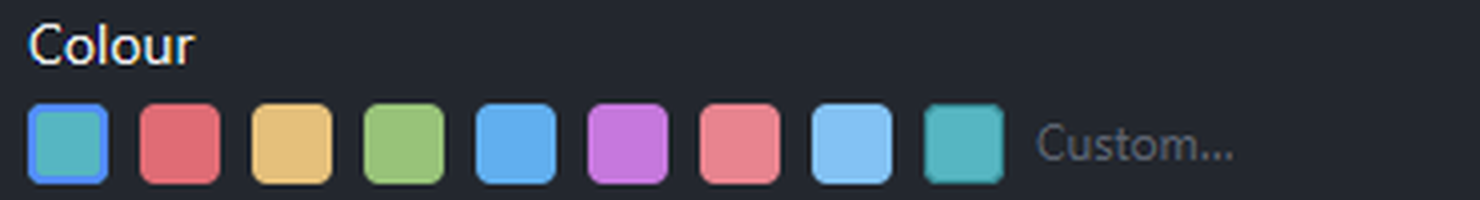
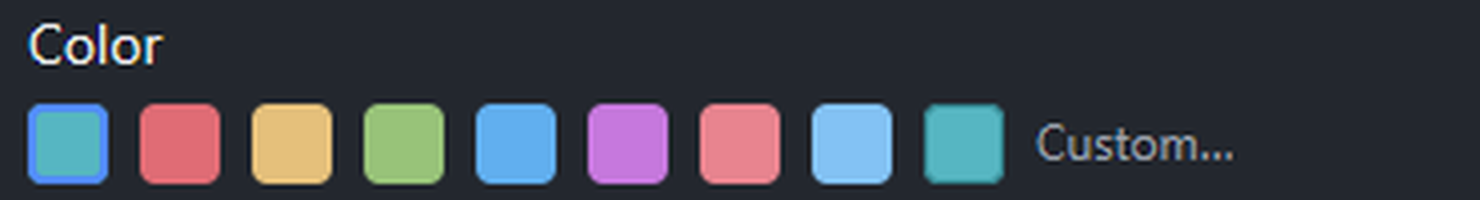
fix(session-ui): the colour label reads "Color", like the rest of the UI
The settings pages already say "Color Theme" and "Cursor Color". One dialog
spelling it "Colour" is a wart the before/after report would show side by side.
Re-captures the US-0120 frames against the shipped text.

Refs: US-0120, IN-0042

Claude-Session: https://claude.ai/code/session_018tAaHVGPnSzrEHLVcg3sx1

Changed region(s): [[0.6838, 0.6, 0.8392, 0.81], [0.0932, 0.15, 0.1554, 0.33]]

diff --git a/crates/session-ui/src/group_combo.rs b/crates/session-ui/src/group_combo.rs
@@ -168,108 +168,115 @@ pub(crate) fn group_combobox(
         })
         .child(
             Combobox::new(state)
-        .placeholder("Select or type group...")
-        .search_placeholder("Search or type group name...")
-        .w_full()
-        .render_trigger({
-            let group_value = group_value.clone();
-            let is_open = is_open.clone();
-            move |ctx, _, cx| {
-                is_open.set(ctx.is_open());
-                let val = group_value.borrow().clone();
-                let placeholder = ctx.placeholder().cloned().unwrap_or_default();
+                .placeholder("Select or type group...")
+                .search_placeholder("Search or type group name...")
+                .w_full()
+                .render_trigger({
+                    let group_value = group_value.clone();
+                    let is_open = is_open.clone();
+                    move |ctx, _, cx| {
+                        is_open.set(ctx.is_open());
+                        let val = group_value.borrow().clone();
+                        let placeholder = ctx.placeholder().cloned().unwrap_or_default();
 
-                h_flex()
-                    .w_full()
-                    .items_center()
-                    .gap_1()
-                    .child(
+                        h_flex()
+                            .w_full()
+                            .items_center()
+                            .gap_1()
+                            .child(
+                                div()
+                                    .w_full()
+                                    .overflow_hidden()
+                                    .truncate()
+                                    .when(val.is_empty(), |this| {
+                                        this.text_color(cx.theme().muted_foreground)
+                                            .child(placeholder)
+                                    })
+                                    .when(!val.is_empty(), |this| {
+                                        this.child(SharedString::from(val))
+                                    }),
+                            )
+                            .when(!ctx.is_open(), |this| {
+                                // Clear (×) button — only shown when the dropdown is closed and a value exists.
+                                this.when(!group_value.borrow().is_empty(), |this| {
+                                    let gv = group_value.clone();
+                                    this.child(
+                                        div()
+                                            .id("clear-group")
+                                            .on_mouse_down(
+                                                gpui::MouseButton::Left,
+                                                move |_, _, cx| {
+                                                    cx.stop_propagation();
+                                                    *gv.borrow_mut() = String::new();
+                                                },
+                                            )
+                                            .child(
+                                                Icon::new(IconName::CircleX)
+                                                    .xsmall()
+                                                    .text_color(muted_fg),
+                                            ),
+                                    )
+                                })
+                            })
+                            .child(
+                                Icon::new(IconName::ChevronDown)
+                                    .xsmall()
+                                    .text_color(cx.theme().muted_foreground),
+                            )
+                            .into_any_element()
+                    }
+                })
+                .footer({
+                    let group_value = group_value.clone();
+                    let query_cell = query_cell.clone();
+                    move |_, cx| {
+                        let query = query_cell.borrow().trim().to_string();
+                        let label = if query.is_empty() {
+                            "Type to create new group".to_string()
+                        } else {
+                            format!("Create \"{}\"", query)
+                        };
+                        let enabled = !query.is_empty();
+
+                        Button::new("create-group")
+                            .ghost()
+                            .label(label)
+                            .icon(Icon::new(IconName::Plus))
+                            .text_color(cx.theme().foreground)
+                            .w_full()
+                            .justify_start()
+                            .when(!enabled, |this| this.disabled(true))
+                            .when(enabled, |this| {
+                                let gv = group_value.clone();
+                                let q = query.clone();
+                                this.on_click(move |_, window, cx| {
+                                    *gv.borrow_mut() = q.clone();
+                                    // Close the dropdown: it used to stay open still
+                                    // offering to create the group it had just created.
+                                    window.dispatch_action(Box::new(Cancel), cx);
+                                })
+                            })
+                            .into_any_element()
+                    }
+                })
+                // The kit's default empty state is a bare inbox icon (`F22`).
+                .empty({
+                    let query_cell = query_cell.clone();
+                    move |_, cx| {
+                        let query = query_cell.borrow().trim().to_string();
                         div()
                             .w_full()
-                            .overflow_hidden()
-                            .truncate()
-                            .when(val.is_empty(), |this| {
-                                this.text_color(cx.theme().muted_foreground)
-                                    .child(placeholder)
+                            .py_4()
+                            .px_3()
+                            .text_sm()
+                            .text_color(cx.theme().muted_foreground)
+                            .child(if query.is_empty() {
+                                "No groups yet. Type a name to create one.".to_string()
+                            } else {
+                                format!("No group matches \"{query}\". Press Enter to create it.")
                             })
-                            .when(!val.is_empty(), |this| this.child(SharedString::from(val))),
-                    )
-                    .when(!ctx.is_open(), |this| {
-                        // Clear (×) button — only shown when the dropdown is closed and a value exists.
-                        this.when(!group_value.borrow().is_empty(), |this| {
-                            let gv = group_value.clone();
-                            this.child(
-                                div()
-                                    .id("clear-group")
-                                    .on_mouse_down(gpui::MouseButton::Left, move |_, _, cx| {
-                                        cx.stop_propagation();
-                                        *gv.borrow_mut() = String::new();
-                                    })
-                                    .child(
-                                        Icon::new(IconName::CircleX).xsmall().text_color(muted_fg),
-                                    ),
-                            )
-                        })
-                    })
-                    .child(
-                        Icon::new(IconName::ChevronDown)
-                            .xsmall()
-                            .text_color(cx.theme().muted_foreground),
-                    )
-                    .into_any_element()
-            }
-        })
-        .footer({
-            let group_value = group_value.clone();
-            let query_cell = query_cell.clone();
-            move |_, cx| {
-                let query = query_cell.borrow().trim().to_string();
-                let label = if query.is_empty() {
-                    "Type to create new group".to_string()
-                } else {
-                    format!("Create \"{}\"", query)
-                };
-                let enabled = !query.is_empty();
-
-                Button::new("create-group")
-                    .ghost()
-                    .label(label)
-                    .icon(Icon::new(IconName::Plus))
-                    .text_color(cx.theme().foreground)
-                    .w_full()
-                    .justify_start()
-                    .when(!enabled, |this| this.disabled(true))
-                    .when(enabled, |this| {
-                        let gv = group_value.clone();
-                        let q = query.clone();
-                        this.on_click(move |_, window, cx| {
-                            *gv.borrow_mut() = q.clone();
-                            // Close the dropdown: it used to stay open still
-                            // offering to create the group it had just created.
-                            window.dispatch_action(Box::new(Cancel), cx);
-                        })
-                    })
-                    .into_any_element()
-            }
-        })
-        // The kit's default empty state is a bare inbox icon (`F22`).
-        .empty({
-            let query_cell = query_cell.clone();
-            move |_, cx| {
-                let query = query_cell.borrow().trim().to_string();
-                div()
-                    .w_full()
-                    .py_4()
-                    .px_3()
-                    .text_sm()
-                    .text_color(cx.theme().muted_foreground)
-                    .child(if query.is_empty() {
-                        "No groups yet. Type a name to create one.".to_string()
-                    } else {
-                        format!("No group matches \"{query}\". Press Enter to create it.")
-                    })
-            }
-        }),
+                    }
+                }),
         )
 }
 
@@ -282,7 +289,10 @@ mod tests {
     #[test]
     fn enter_creates_only_a_typed_name_the_list_cannot_offer() {
         assert_eq!(group_commit("Lab", 0), GroupCommit::Create("Lab".into()));
-        assert_eq!(group_commit("  Lab  ", 0), GroupCommit::Create("Lab".into()));
+        assert_eq!(
+            group_commit("  Lab  ", 0),
+            GroupCommit::Create("Lab".into())
+        );
         // A row is on screen: Enter belongs to the list, which selects it.
         assert_eq!(group_commit("Lab", 1), GroupCommit::Ignore);
         // Nothing typed: Enter has nothing to create.

diff --git a/crates/session-ui/src/session_dialog.rs b/crates/session-ui/src/session_dialog.rs
@@ -192,21 +192,31 @@ fn color_row(state: &gpui::Entity<ColorPickerState>, cx: &App) -> impl IntoEleme
         .gap_2()
         .items_center()
         .flex_wrap()
-        .children(swatch_colors(cx).into_iter().enumerate().map(|(ix, color)| {
-            let is_selected = selected.is_some_and(|value| value.to_hex() == color.to_hex());
-            let state = state.clone();
-            div()
-                .id(("session-color", ix))
-                .w_5()
-                .h_5()
-                .rounded_sm()
-                .bg(color)
-                .border_2()
-                .border_color(if is_selected { border } else { gpui::transparent_black() })
-                .on_click(move |_, window, cx| {
-                    state.update(cx, |state, cx| state.set_value(color, window, cx));
-                })
-        }))
+        .children(
+            swatch_colors(cx)
+                .into_iter()
+                .enumerate()
+                .map(|(ix, color)| {
+                    let is_selected =
+                        selected.is_some_and(|value| value.to_hex() == color.to_hex());
+                    let state = state.clone();
+                    div()
+                        .id(("session-color", ix))
+                        .w_5()
+                        .h_5()
+                        .rounded_sm()
+                        .bg(color)
+                        .border_2()
+                        .border_color(if is_selected {
+                            border
+                        } else {
+                            gpui::transparent_black()
+                        })
+                        .on_click(move |_, window, cx| {
+                            state.update(cx, |state, cx| state.set_value(color, window, cx));
+                        })
+                }),
+        )
         .child(ColorPicker::new(state).small())
         .child(div().text_xs().text_color(muted).child("Custom\u{2026}"))
 }
@@ -457,7 +467,7 @@ pub(crate) fn open_session_dialog(
                     cx,
                 ))
                 .child(labelled_field(
-                    "Colour",
+                    "Color",
                     FieldRequirement::Optional,
                     color_row(&color_state, cx),
                     cx,

diff --git a/crates/session-ui/src/auth_form.rs b/crates/session-ui/src/auth_form.rs
@@ -117,13 +117,11 @@ impl SshAuthForm {
                 RadioGroup::horizontal("ssh-auth-method")
                     // `control_label` instead of `Radio::from(&str)`, whose
                     // `.label(…)` clips the `y` of "Private Key" (BUG-0069).
-                    .children(
-                        ["Password", "Private Key", "SSH Agent"].map(|label| {
-                            Radio::new(label)
-                                .accessibility_label(label)
-                                .child(control_label(label))
-                        }),
-                    )
+                    .children(["Password", "Private Key", "SSH Agent"].map(|label| {
+                        Radio::new(label)
+                            .accessibility_label(label)
+                            .child(control_label(label))
+                    }))
                     .selected_index(Some(selected_index))
                     .on_click(move |selected: &usize, window, cx| {
                         let private_key_selected = *selected == 1;

diff --git a/crates/session-ui/src/quick_connect_dialog.rs b/crates/session-ui/src/quick_connect_dialog.rs
@@ -273,10 +273,7 @@ fn open_quick_connect_dialog_internal(mode: QuickConnectMode, window: &mut Windo
             }
             // A retry starts clean; the failure of this attempt replaces it.
             inline_error.clear();
-            let jump_hops = match hops
-                .forms(window, cx)
-                .and_then(|forms| forms.take_hops(cx))
-            {
+            let jump_hops = match hops.forms(window, cx).and_then(|forms| forms.take_hops(cx)) {
                 Ok(jump_hops) => jump_hops,
                 Err(message) => {
                     window.push_notification(notify(NotificationType::Warning, message, cx), cx);

diff --git a/crates/app/src/ssh_client_panel.rs b/crates/app/src/ssh_client_panel.rs
@@ -192,7 +192,11 @@ impl SshClientPanel {
     }
 
     /// The Session header with its "New Session" button (`US-0119`).
-    fn render_session_header(&self, window: &mut Window, cx: &mut Context<Self>) -> impl IntoElement {
+    fn render_session_header(
+        &self,
+        window: &mut Window,
+        cx: &mut Context<Self>,
+    ) -> impl IntoElement {
         let suffix = self.session.update(cx, |session, cx| {
             session
                 .title_suffix(window, cx)

diff --git a/crates/session-ui/src/common.rs b/crates/session-ui/src/common.rs
@@ -526,10 +526,7 @@ pub(crate) fn connect_ssh_session(
                         on_failed(message.clone(), cx);
                     }
                     window.refresh();
-                    window.push_notification(
-                        notify(NotificationType::Error, message, cx),
-                        cx,
-                    );
+                    window.push_notification(notify(NotificationType::Error, message, cx), cx);
                 }
             });
         })

diff --git a/crates/state/src/form_dialog.rs b/crates/state/src/form_dialog.rs
@@ -313,7 +313,10 @@ mod tests {
         let mut previous = px(0.);
         for height in [px(0.), px(400.), px(600.), px(900.), px(1600.)] {
             let cap = form_body_max_height(height);
-            assert!(cap >= previous, "{height:?} gave {cap:?} after {previous:?}");
+            assert!(
+                cap >= previous,
+                "{height:?} gave {cap:?} after {previous:?}"
+            );
             previous = cap;
         }
     }

diff --git a/docs/ssh-client-connect.md b/docs/ssh-client-connect.md
@@ -953,7 +953,7 @@ landed on a row. See `SessionPanel::row_was_right_clicked`.
 
 ### 6.6. The New / Edit SSH Session dialog (`US-0120`)
 
-Top to bottom: **Label**, **Colour**, **Host**, **Port**, **Username**, **Authentication**,
+Top to bottom: **Label**, **Color**, **Host**, **Port**, **Username**, **Authentication**,
 the **Advanced** disclosure, **Group**, **Logging**.
 
 - **Advanced** folds away Jump host, agent forwarding and port forwards — most of the form's
@@ -961,7 +961,7 @@ the **Advanced** disclosure, **Group**, **Logging**.
   when the session being edited already sets any of them
   (`session_dialog::advanced_is_configured`): a user who set a jump host and then sees no jump
   host concludes it was lost.
-- **Colour** is a labelled row of eight swatches — `US-0110`'s `#56B6C2` default first, then
+- **Color** is a labelled row of eight swatches — `US-0110`'s `#56B6C2` default first, then
   theme colours — plus the full picker behind a "Custom…" square. A swatch writes through the
   same `ColorPickerState` the picker writes and Save still stores
   `state.value().to_hex()`, so both produce exactly the value `session_color_hex` already

diff --git a/docs/spec-intakes/IN-0042-ux-polish-round-1/US-0120-session-form-scrolls-folds-and-shortens-the-colour-row.md b/docs/spec-intakes/IN-0042-ux-polish-round-1/US-0120-session-form-scrolls-folds-and-shortens-the-colour-row.md
@@ -269,7 +269,7 @@ the collapsed case no longer scrolls at all in a 1000 px window.
 
 Eight swatches — `US-0110`'s `#56B6C2` default first so a new session's colour is one of them,
 then theme colours, no hard-coded values — a "Custom…" square that opens the full picker, and a
-visible **Colour** label. The swatches write through the very same `ColorPickerState` the
+visible **Color** label (the spelling the rest of the UI uses: "Color Theme", "Cursor Color"). The swatches write through the very same `ColorPickerState` the
 picker writes, and `submit` still stores `color_state.read(cx).value().map(|h| h.to_hex())`.
 **There is no new value format and no second code path**, which is why this packet adds no
 colour test: `US-0110`'s resolver tests already cover the only value that is produced. The
